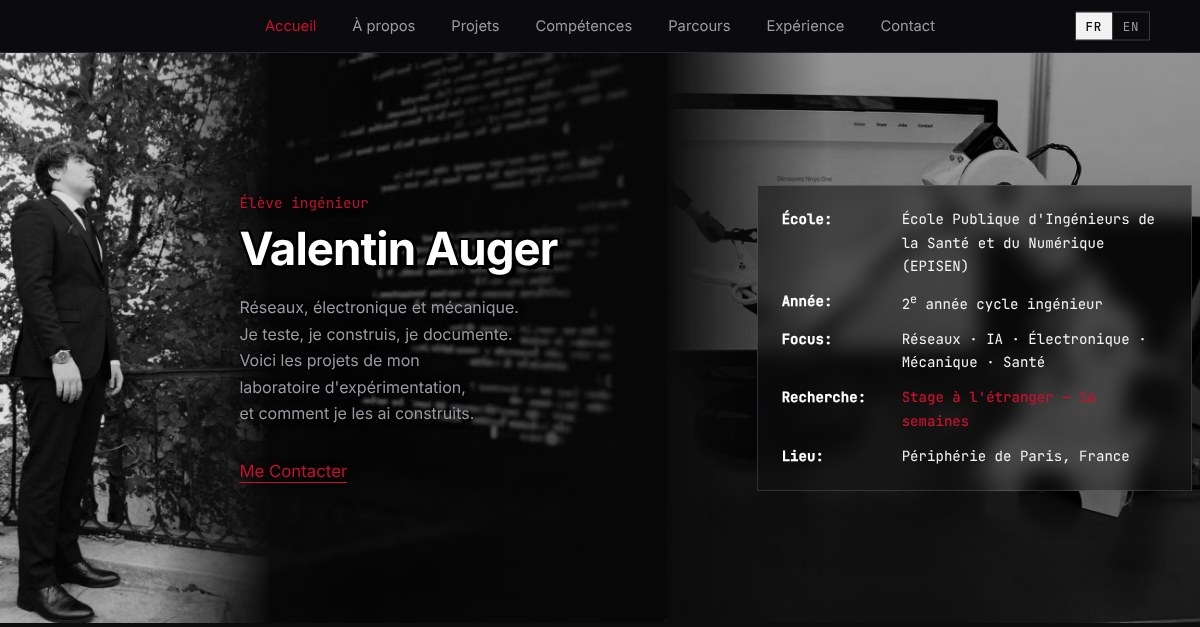
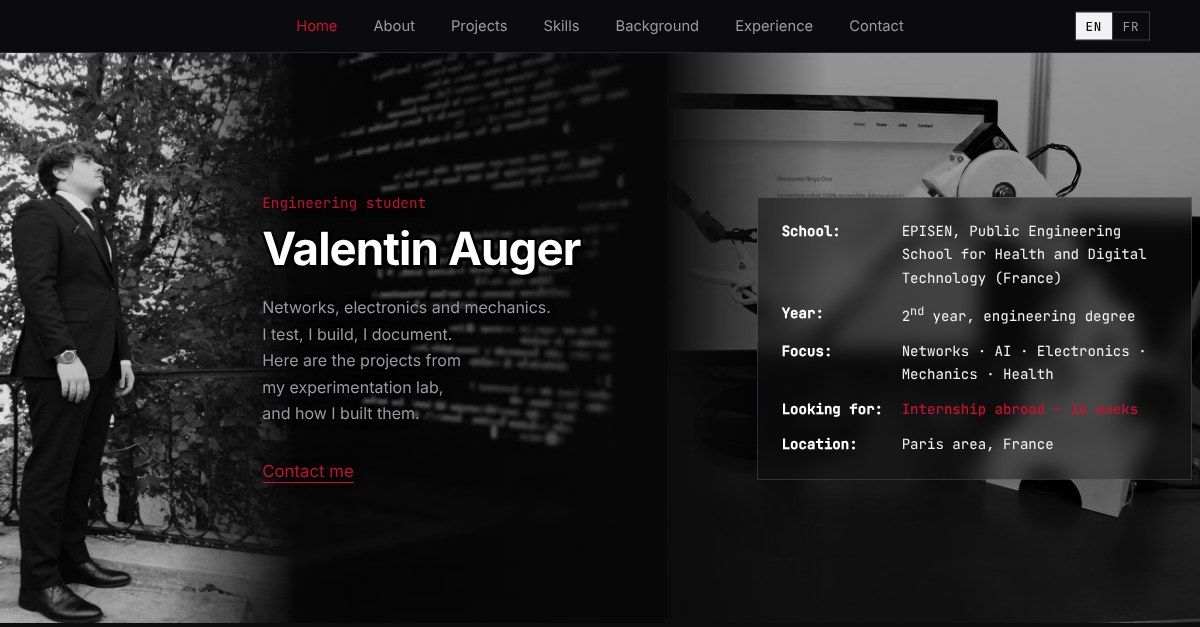
Accueil : proportions de la photo corrigées (élargie de 9 %), aperçu des liens refait

diff --git a/style.css b/style.css
@@ -101,8 +101,8 @@ main { max-width: var(--maxw); margin: 0 auto; padding: 0 16px; }
   -webkit-mask-image: linear-gradient(270deg, transparent 0%, #000 45%);
   mask-image: linear-gradient(270deg, transparent 0%, #000 45%);
 }
-/* texte calé juste à droite de la photo (largeur photo ≈ 0,48 × hauteur du bloc) */
-.hero-left { justify-content: flex-start; padding-left: calc((100vh - 57px) * 0.42) !important; }
+/* texte calé juste à droite de la photo (largeur photo ≈ 0,52 × hauteur du bloc) */
+.hero-left { justify-content: flex-start; padding-left: calc((100vh - 57px) * 0.46) !important; }
 .hero-left .hero-text { max-width: max(28rem, 34vw); }
 /* voile sombre pour garder le nom lisible par-dessus la photo */
 /* image de code (retournée en miroir) qui comble la zone entre la photo et le côté droit ;

diff --git a/FICHE-PROJET.md b/FICHE-PROJET.md
@@ -22,7 +22,7 @@
 - Accueil scindé en deux (seulement l'accueil, le reste du site reste noir uni) :
   gauche = nom + photo de Valentin (assets/photo.jpg), droite = image ingénierie santé / robots (assets/fond-sante.jpg) + fiche résumé (rectangle simple, angles droits, semi-transparent + flou, libellés en gras avec majuscule ; PAS de barre façon fenêtre Mac ; légèrement décalée vers la droite via transform, sauf sur mobile).
   Les deux photos passent en noir et blanc via CSS (filter: grayscale). Proportions : --left / --right dans .hero.
-- Photo de Valentin (costume, N&B) : assets/photo.jpg = sens d'ORIGINE, recadré à gauche ; calée à GAUCHE du bloc gauche (il regarde vers son nom), fondu vers la droite ; le texte est poussé à droite de la photo. Sur téléphone : photo atténuée (opacity .35). (copie de secours photo-original.jpg supprimée à la demande de Valentin ; l'original est dans l'historique Git, commit 10158cc).
+- Photo de Valentin (costume, N&B) : assets/photo.jpg = sens d'ORIGINE, recadré à gauche ; 26 nov. 2026 : PROPORTIONS CORRIGÉES à sa demande (la version costume était ~9 % trop étroite par rapport à sa vraie photo : mesuré sur jambes / torse / tête) → image élargie ×1,09 (588 → 641 px de large), padding-left du texte 0,42 → 0,46 × hauteur, aperçu LinkedIn refait ; calée à GAUCHE du bloc gauche (il regarde vers son nom), fondu vers la droite ; le texte est poussé à droite de la photo. Sur téléphone : photo atténuée (opacity .35). (copie de secours photo-original.jpg supprimée à la demande de Valentin ; l'original est dans l'historique Git, commit 10158cc).
 - Zone entre la photo et le côté droit : image de code (fournie par Valentin) RETOURNÉE en miroir, assets/code-hero.jpg (474x270, petite), en fond assombri (brightness .55) sous la photo, fondu depuis la gauche.
 - Image du robot (droite) : fondu sur son bord gauche (mask-image) pour une transition douce avec la zone code ; fond du bloc droit = noir.
 - Trait d'ECG : essayé puis REFUSÉ par Valentin.
